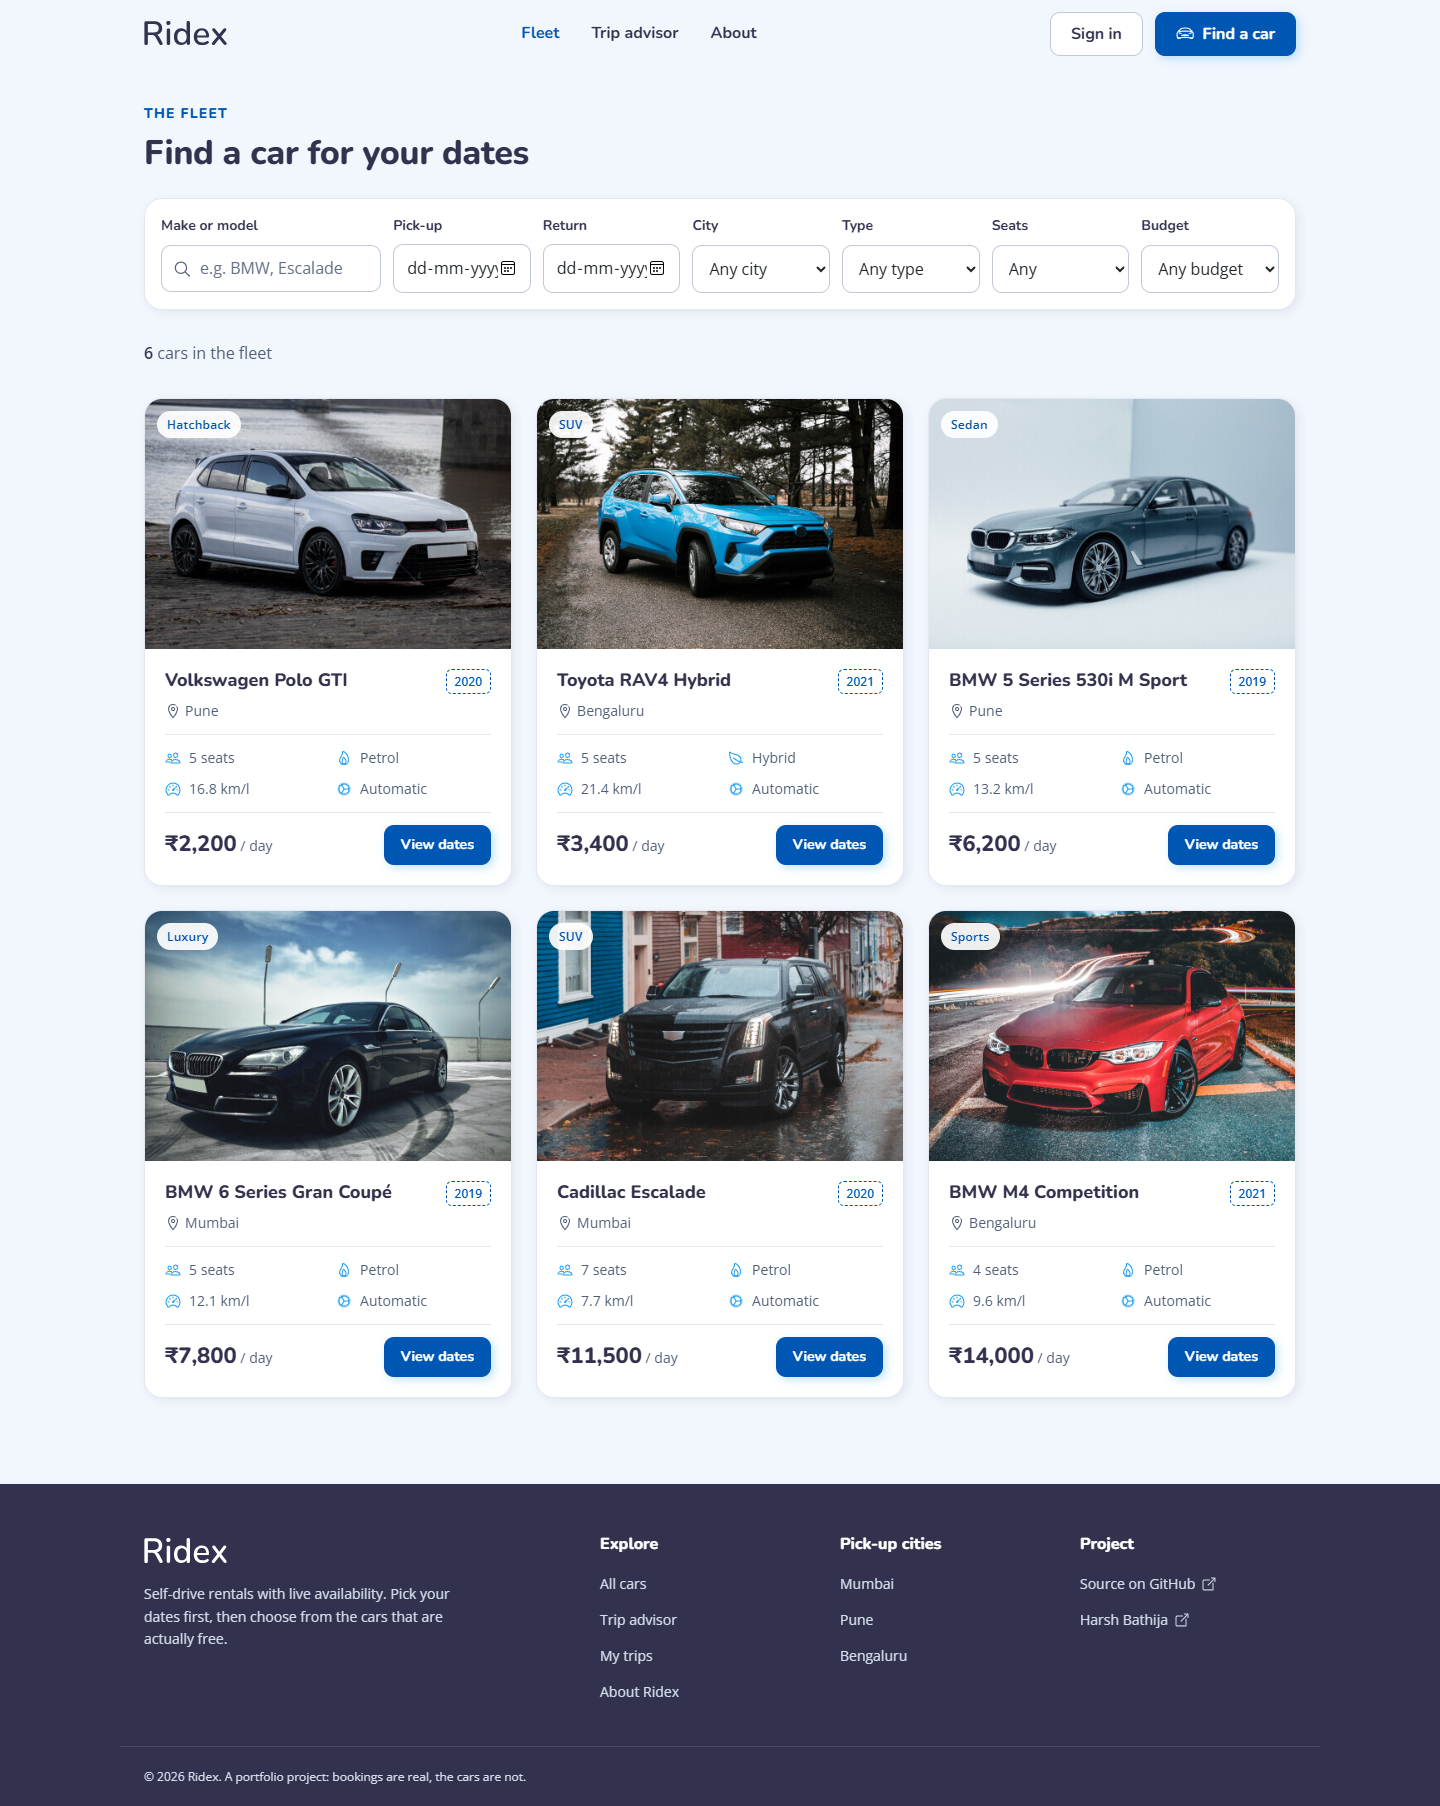
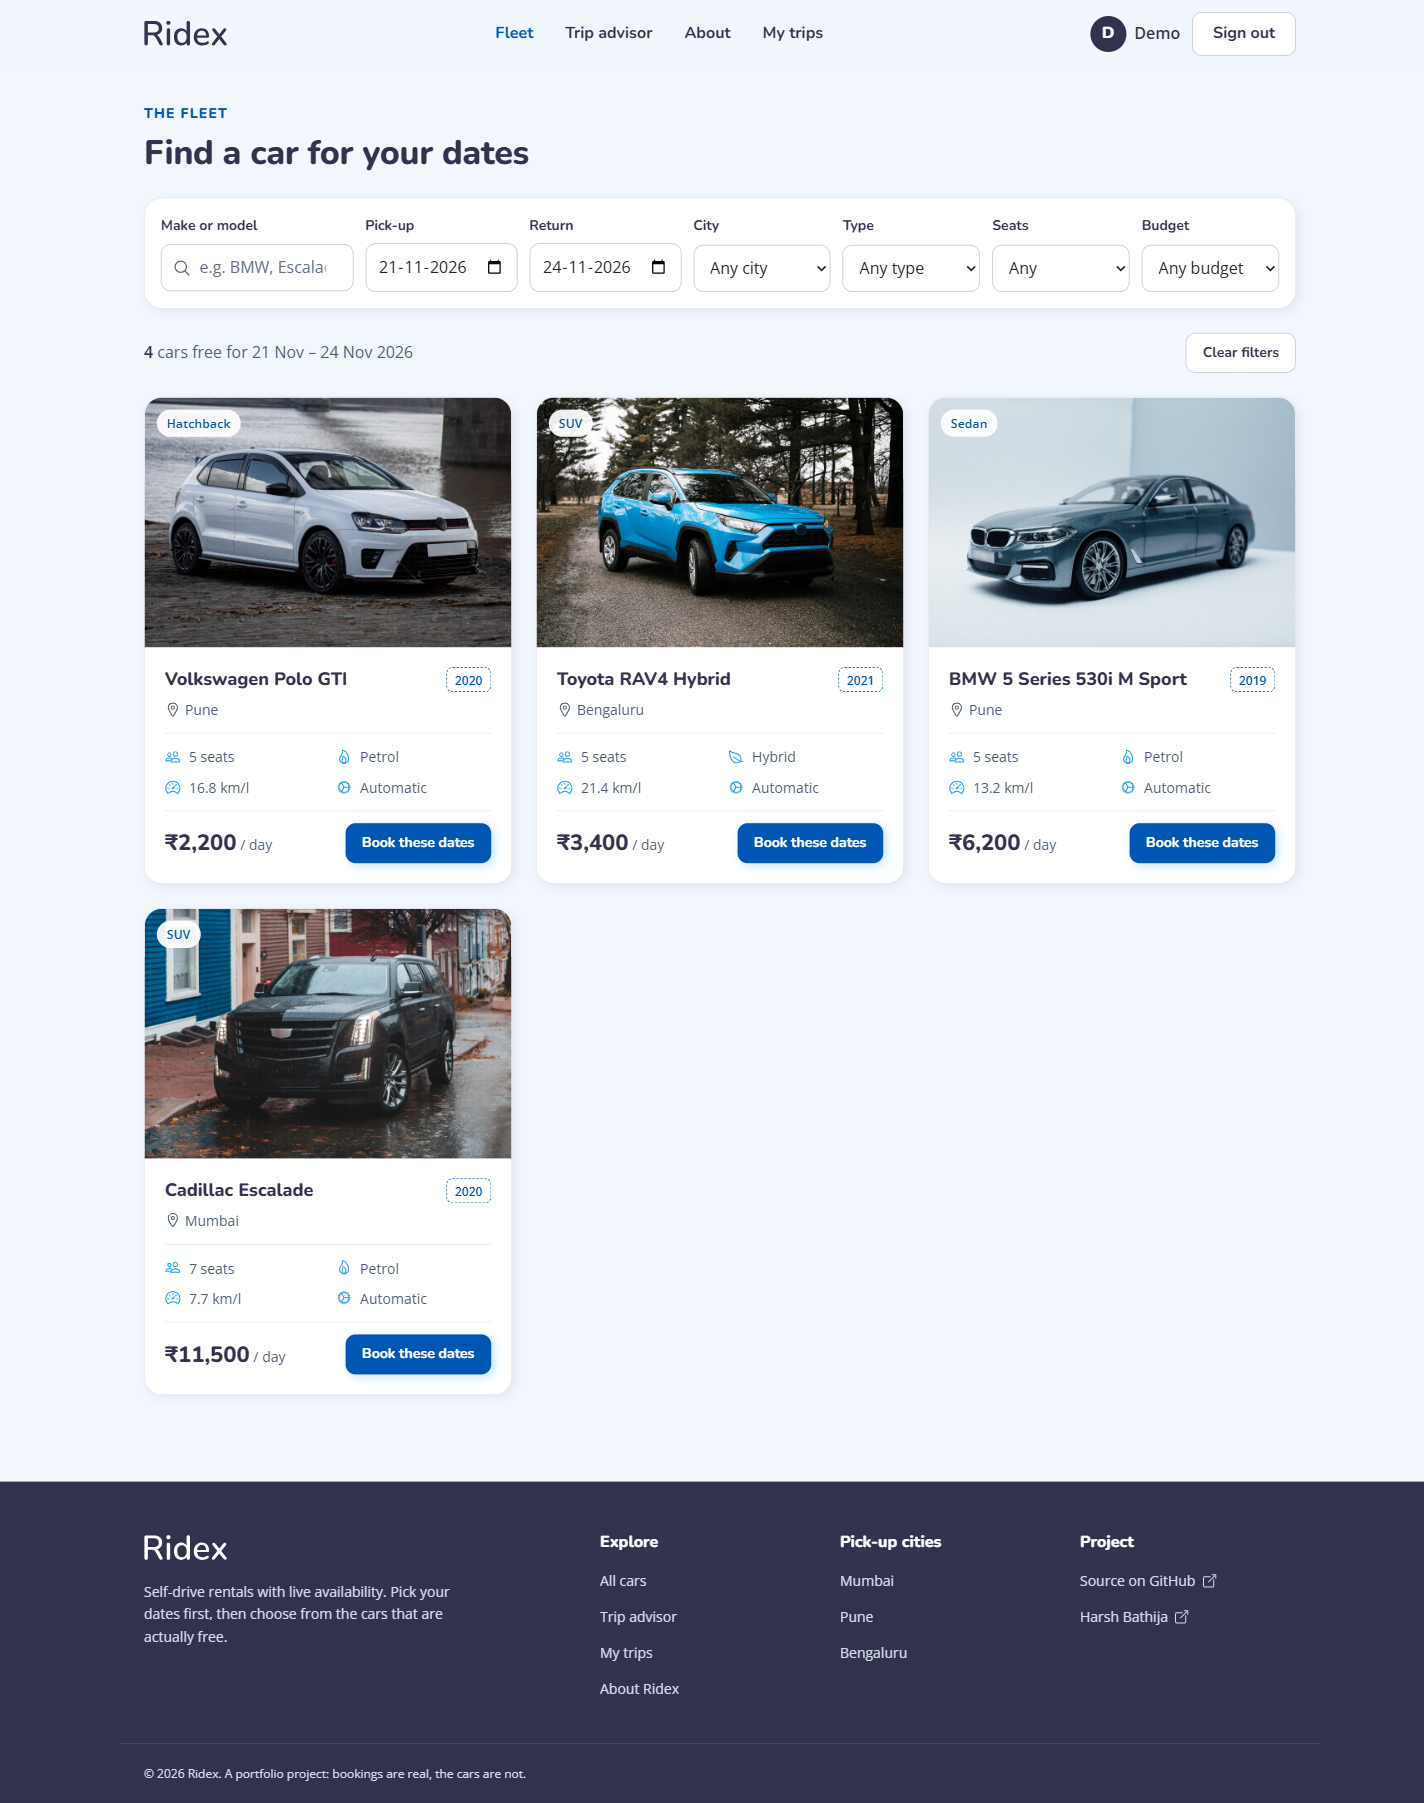
style(web): roomier date filters, accurate result counts, one clear-filters action

diff --git a/frontend/src/pages/Cars.jsx b/frontend/src/pages/Cars.jsx
@@ -88,7 +88,7 @@ export default function Cars() {
                 className="field__control"
                 type="search"
                 value={q}
-                placeholder="e.g. BMW, Escalade"
+                placeholder="e.g. BMW"
                 onChange={(e) => setQ(e.target.value)}
               />
             </div>
@@ -146,7 +146,11 @@ export default function Cars() {
             {cars ? (
               <>
                 <strong>{cars.length}</strong> {cars.length === 1 ? 'car' : 'cars'}
-                {datesValid ? ` free for ${formatRange(from, to)}` : ' in the fleet'}
+                {datesValid
+                  ? ` free for ${formatRange(from, to)}`
+                  : hasFilters
+                    ? ` ${cars.length === 1 ? 'matches' : 'match'} your filters`
+                    : ' in the fleet'}
               </>
             ) : (
               'Loading cars…'
@@ -155,7 +159,7 @@ export default function Cars() {
               <span className="results-bar__hint"> · add both dates to check availability</span>
             )}
           </p>
-          {hasFilters && (
+          {hasFilters && cars?.length > 0 && (
             <button type="button" className="btn btn--ghost btn--sm" onClick={reset}>
               Clear filters
             </button>
@@ -176,7 +180,7 @@ export default function Cars() {
           >
             {datesValid
               ? 'Everything that fits is booked for those dates. Try shifting by a day or widening the filters.'
-              : 'Try a different city, type or budget.'}
+              : 'Try another make or model, or loosen the city, type, seats or budget.'}
           </EmptyState>
         ) : (
           <CarGrid cars={cars} loading={loading} search={dateSearch} skeletons={6} />

diff --git a/frontend/src/styles/main.css b/frontend/src/styles/main.css
@@ -1201,7 +1201,8 @@ textarea::placeholder {
 }
 @media (min-width: 1100px) {
   .filters {
-    grid-template-columns: 1.6fr repeat(6, minmax(0, 1fr));
+    /* date inputs need room for the dd-mm-yyyy mask and the picker icon */
+    grid-template-columns: 1.4fr repeat(2, minmax(9.5rem, 1fr)) repeat(4, minmax(0, 1fr));
   }
   .filters__search {
     grid-column: auto;
